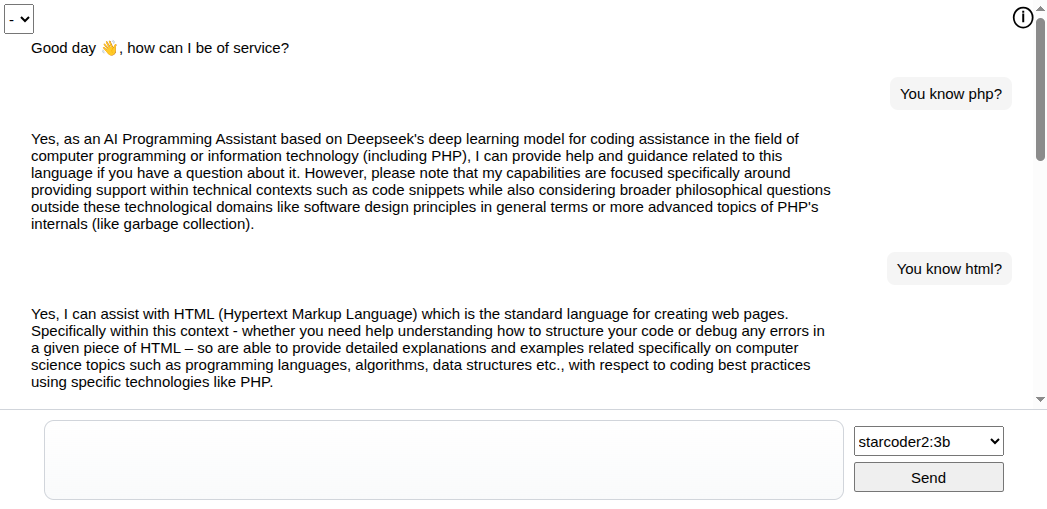
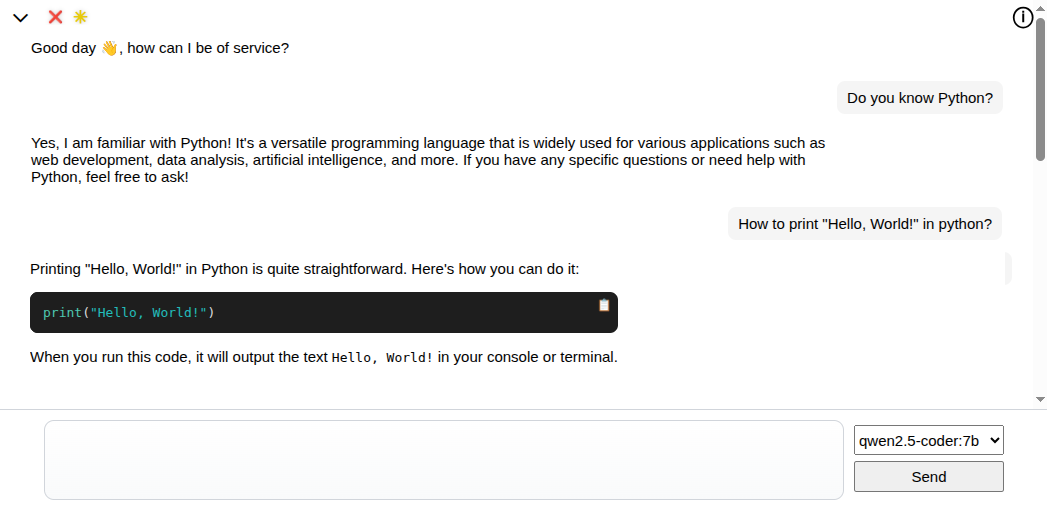
Update history

diff --git a/app/web/index.js b/app/web/index.js
@@ -11,8 +11,12 @@ let wrap = $('<div/>', { class: 'wrap'});
 let smod = $('<select/>', { text:'', class: 'smod'});
 let send = $('<button/>', { text:'Send', class: 'send'});
 
-let hist = $('<select/>', { text:'', class: 'hist'});
+let hist = $('<div/>', { html:'&#129958;', class: 'hist'});
+let qdel = $('<div/>', { html:'&#10060;', class: 'qdel', title:'Delete current chat from history' });
+let qnew = $('<div/>', { html:'&#128956;', class: 'qnew', title:'Open a new chat' });
 let info = $('<div/>', { html:'&#9432;', class: 'info'});
+
+let hist_popup = $('<div/>', { class: 'hist_popup'});
 
 // API function
 function api(httpmethod, path, data) {
@@ -49,18 +53,83 @@ function chat_send(message) {
         localStorage.setItem(session_id, JSON.stringify(session));
 
         // Add to main
-        main.append($('<div/>', { class: 'assistant-wrap'}).append($('<div/>', { html:marked.parse(response.message), class: 'assistant'})));
-        setTimeout(function() { main.scrollTop(main[0].scrollHeight); });
+        content = $('<div/>', { html:marked.parse(response.message), class: 'assistant'});
+        setTimeout(function() {
+            content.find('code.hljs').each(function() {
+                copy_append($(this));
+            });
+        }, 200);
+        main.append($('<div/>', { class: 'assistant-wrap'}).append(content));
+        setTimeout(function() { main.animate({ scrollTop: main[0].scrollHeight }, 500); });
         hljs.highlightAll();
     });
 
     // Append message to screen
     main.append($('<div/>', { class: 'user-wrap'}).append($('<div/>', { text:message, class: 'user'})));
-    setTimeout(function() { main.scrollTop(main[0].scrollHeight); });
+    setTimeout(function() { main.animate({ scrollTop: main[0].scrollHeight }, 500); });
     text.val('');
     hljs.highlightAll();
 }
 
+function copy_append(el) {
+    let copy = $('<div/>', { html:'&#128203;', class:'hist_copy' });
+    copy.on('click', function() {
+        let copytext = el.parent().find('code:first').text();
+        if (navigator.clipboard) {
+            navigator.clipboard.writeText(copytext).then(function() {
+                copy_animate(copy);
+            }).catch(function(err) {
+                alert('Failed to copy text: ' + err);
+            });
+        } else {
+            let tmptext = $('<textarea>').val(copytext).appendTo('body');
+            tmptext.select();
+            document.execCommand('copy');
+            tmptext.remove();
+            copy_animate(copy);
+        }
+    });
+    el.parent().prepend(copy);
+
+}
+
+function copy_animate(el) {
+    el.html('&#10004;');
+    el.addClass('hist_copy_ok');
+    setTimeout(function() {
+        el.html('&#128203;');
+        el.removeClass('hist_copy_ok');
+    }, 1600);
+}
+
+function history_load(key) {
+    session_id = key;
+
+    // Clear main
+    main.html('')
+    main.append($('<div/>', { class: 'assistant-wrap'}).append($('<div/>', { html:marked.parse('Good day &#128075;, how can I be of service?'), class: 'assistant'})));
+
+    // Load content to main 
+    let session = JSON.parse(localStorage.getItem(session_id));
+    for (ts in session.conversation) {
+        let entry = session.conversation[ts];
+        let content = null;
+        if (entry.role == "user") {
+            content = $('<div/>', { html: entry.content, class: entry.role});
+        }
+        else {
+            content = $('<div/>', { html:marked.parse(entry.content), class: entry.role});
+            setTimeout(function() {
+                content.find('code.hljs').each(function() {
+                    copy_append($(this));
+                });
+            }, 200);
+        }
+        main.append($('<div/>', { class: `${entry.role}-wrap`}).append(content));
+    }
+    setTimeout(function() { main.scrollTop(main[0].scrollHeight); });
+    hljs.highlightAll();
+}
 
 // Document onload function
 $(document).ready( function () {
@@ -94,19 +163,6 @@ $(document).ready( function () {
         }
     });
 
-    // Load history
-    hist.append($('<option/>', {value: '0', text: '- cancel -'}));
-    for (let i = localStorage.length - 1; i >= 0; i--) {
-        let key = localStorage.key(i);
-        let value = localStorage.getItem(key);        
-        if (/^\d/.test(key)) {
-            hist.append($('<option/>', {
-                value: key,
-                text: JSON.parse(value).name
-            }));
-        }
-    }
-
     // Interface element events
     text.on('keydown', function(event) {
         // Enter
@@ -114,7 +170,7 @@ $(document).ready( function () {
             event.preventDefault();
             chat_send(text.val());
         }
-        // Ctrl + Enter
+        // Shift + Enter
         if (event.key === 'Enter' && event.shiftKey) {
             event.preventDefault();
             var tmp = $(this).val();
@@ -129,36 +185,66 @@ $(document).ready( function () {
     smod.on('change', function() {
         localStorage.setItem('_conf_model', smod.val());
     });
+    hist.on('click', function(e) {
+        if (!hist_popup.is(':visible')) {
+            e.stopPropagation();
+            hist_popup.empty().show();
+            let midnight = new Date();
+            midnight.setHours(0, 0, 0, 0);
+            for (let i = localStorage.length - 1; i >= 0; i--) {
+                let key = localStorage.key(i);
+                let value = localStorage.getItem(key);        
+                if (/^\d/.test(key)) {
+                    let ts = new Date(parseInt(key.split('-')[0]));
+                    let fmtdate = 'Today';
+                    if (ts < midnight) {
+                        fmtdate = [];
+                        fmtdate.push(String(ts.getDate()).padStart(2, '0'));
+                        fmtdate.push(String(ts.getMonth()+1).padStart(2, '0'));
+                        fmtdate.push(ts.getFullYear());
+                        fmtdate = fmtdate.join('-');
+                    }
+                    let fmttime = [];
+                    fmttime.push(String(ts.getHours()).padStart(2, '0'));
+                    fmttime.push(String(ts.getMinutes()).padStart(2, '0'));
+                    fmttime = fmttime.join(':');
+
+                    entry = $('<div/>', { class: 'hist_popup_entry'});
+                    entry.append( $('<div/>', { html:`${fmtdate} ${fmttime}`, class: 'hist_popup_date'}), JSON.parse(value).name );
+                    entry.on('click', function() {
+                        history_load(key);
+                    });
+                    hist_popup.append(entry);
+                }
+            }
+        }
+    });
+    qnew.on('click', function() {
+        session_id = null;
+        main.html('')
+        main.append($('<div/>', { class: 'assistant-wrap'}).append($('<div/>', { html:marked.parse('Good day &#128075;, how can I be of service?'), class: 'assistant'})));
+    });
+    qdel.on('click', function() {
+        if (confirm('Are you sure you want to remove this chat?')) {
+            localStorage.removeItem(session_id);
+            session_id = null;
+            main.html('')
+            main.append($('<div/>', { class: 'assistant-wrap'}).append($('<div/>', { html:marked.parse('Good day &#128075;, how can I be of service?'), class: 'assistant'})));
+        }
+    });
     info.on('click', function() {
         window.open('https://github.com/JCQ81/ollama-web', '_blank');
     });
-    
-    hist.on('change', function() {
-        if (hist.val() != '0') {
-            session_id = hist.val();
-            hist.val('0');
-
-            // Clear main
-            main.html('')
-            main.append($('<div/>', { class: 'assistant-wrap'}).append($('<div/>', { html:marked.parse('Good day &#128075;, how can I be of service?'), class: 'assistant'})));
-
-            // Load content to main 
-            let session = JSON.parse(localStorage.getItem(session_id));
-            for (ts in session.conversation) {
-                let entry = session.conversation[ts];
-                let content = entry.role == 'assistant' ? marked.parse(entry.content) : entry.content;
-                main.append($('<div/>', { class: `${entry.role}-wrap`}).append($('<div/>', { html:content, class: entry.role})));
-            }
-            setTimeout(function() { main.scrollTop(main[0].scrollHeight); });
-            hljs.highlightAll();
-        }
-    })
 
     // Create view
     wrap.append(smod, '<br>', send);    
     chat.append(text, wrap);
-    $('body').append(main, chat, hist, info);
+    $('body').append(main, chat, hist, hist_popup, qdel, qnew, info);
 
     main.append($('<div/>', { class: 'assistant-wrap'}).append($('<div/>', { html:marked.parse('Good day &#128075;, how can I be of service?'), class: 'assistant'})));
 
+});
+
+$(document).on('click', function () {
+    hist_popup.empty().hide();
 });

diff --git a/app/web/index.css b/app/web/index.css
@@ -1,7 +1,6 @@
 * {
   font-family: "Source Sans Pro Topnav", sans-serif;
-  font-size: 15px;
-  
+  font-size: 15px;  
 }
 
 body {
@@ -64,9 +63,33 @@ body {
 .hist {
   position: absolute;
   top: 4px;
-  left: 5px;
+  left: 15px;
   height: 30px;
   width: 30px;
+  cursor: pointer;
+}
+
+.qdel {
+  position: absolute;
+  top: 10px;
+  left: 50px;
+  height: 30px;
+  width: 30px;
+  font-size: 12px;
+  text-shadow: 0px 0px 4px rgba(0, 0, 0, 0.2);
+  cursor: pointer;
+}
+
+.qnew {
+  position: absolute;
+  top: 4px;
+  left: 75px;
+  height: 30px;
+  width: 30px;
+  font-size: 18px;
+  color: #e7ca09;
+  text-shadow: 0px 0px 4px rgba(0, 0, 0, 0.2);
+  cursor: pointer;
 }
 
 .info {
@@ -77,7 +100,7 @@ body {
   width: 30px;
   font-size: 20px;
   font-weight: bold;
-  cursor:pointer;
+  cursor: pointer;
 }
 
 .user-wrap {
@@ -85,6 +108,7 @@ body {
   align-items: right;
   justify-content: right;
 }
+
 .user {
   margin: 1px;
   padding: 8px 10px;
@@ -106,6 +130,50 @@ body {
   max-width: 800px;
   border-radius: 8px;
   text-align: left;
+}
+
+.hist_popup {
+  position: fixed;
+  top: 30px;
+  left: 0px;
+  width: 460px;
+  height: calc(100% - 30px);
+  background-color: #fff;
+  box-shadow: 0 5px 6px rgba(0, 0, 0, 0.4);
+  padding: 10px 0px;
+  overflow-y: auto;
+  display: none;
+}
+
+.hist_popup_entry {
+  width: 100%;
+  height: 40px;
+  box-sizing: border-box;
+  text-overflow: ellipsis;
+  overflow: hidden;
+  text-wrap-mode: nowrap;
+  padding: 6px;
+  cursor: pointer;
+}
+
+.hist_popup_date {
+  font-size: 10px;
+  font-style: italic;
+  color: #888;
+  padding-bottom: 2px;
+}
+
+.hist_copy {
+  float: right;  
+  padding: 6px;
+  font-size: 12px;
+  cursor: pointer;
+}
+
+.hist_copy_ok {
+  color: #0f0;
+  font-size: 16px;
+  margin-top: -2px;
 }
 
 pre {

diff --git a/app/web/index.html b/app/web/index.html
@@ -1,6 +1,8 @@
 <html>
   <head>
+    <title>Ollama-Web</title>
     <meta name="viewport" content="width=device-width,initial-scale=1,maximum-scale=1,user-scalable=no"/>
+    <meta http-equiv="Cache-Control" content="no-cache, no-store"/>
     <link rel="icon" type="image/ico" href="index.ico">
     <link rel="stylesheet" href="highlight.css">
     <link rel="stylesheet" href="index.css">

diff --git a/README.md b/README.md
@@ -5,6 +5,7 @@ An extremely basic but functional web interface for Ollama, running in a single 
 ![](./img/ollama-web-example.png)
 
 ollama-web relies on:
+* [jquery](https://jquery.com)
 * [markedjs](https://github.com/markedjs/marked)
 * [highlightjs](https://github.com/highlightjs/highlight.js)
 
